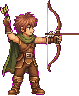
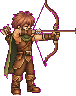
feat: archer idle jump cast from video frames

diff --git a/midgard_outpost/test/art/animation_atlas_test.dart b/midgard_outpost/test/art/animation_atlas_test.dart
@@ -31,7 +31,7 @@ void main() {
       );
       expect(
         AnimationAtlas.heroFrames(HeroClassId.archer, HeroAnimName.jump),
-        hasLength(4),
+        hasLength(6),
       );
       expect(
         AnimationAtlas.heroFrames(HeroClassId.archer, HeroAnimName.cast),
@@ -109,8 +109,8 @@ void main() {
   });
 
   test('allFramePaths lists every animation frame without duplicates', () {
-    expect(AnimationAtlas.allFramePaths, hasLength(58));
-    expect(AnimationAtlas.allFramePaths.toSet(), hasLength(58));
+    expect(AnimationAtlas.allFramePaths, hasLength(60));
+    expect(AnimationAtlas.allFramePaths.toSet(), hasLength(60));
 
     for (final classId in HeroClassId.values) {
       for (final anim in HeroAnimName.values) {

diff --git a/midgard_outpost/lib/art/animation_atlas.dart b/midgard_outpost/lib/art/animation_atlas.dart
@@ -75,7 +75,7 @@ class AnimationAtlas {
       return switch (anim) {
         HeroAnimName.idle => 4,
         HeroAnimName.run => 8,
-        HeroAnimName.jump => 4,
+        HeroAnimName.jump => 6,
         HeroAnimName.cast => 8,
       };
     }

diff --git a/midgard_outpost/tool/import_art_canon.py b/midgard_outpost/tool/import_art_canon.py
@@ -11,7 +11,6 @@ from pathlib import Path
 from PIL import Image
 
 from clean_sprite_alpha import clean_sprite_cutout, force_corner_alpha_zero
-from process_walk_frame import process_walk_frame_image
 
 HERO_FRAME_RESAMPLE = Image.Resampling.NEAREST
 RESAMPLE = Image.Resampling.LANCZOS
@@ -35,15 +34,18 @@ HERO_ANIM_COUNTS: dict[str, int] = {
     "cast": 3,
 }
 
-# Archer v3 magenta-chroma frames (idle/jump — not hero sheet or walk dir).
-ARCHER_V3_ANIMS: dict[str, int] = {
-    "idle": 4,
-    "jump": 4,
-}
-
-# Archer run/cast cycles from Higgsfield video frames (pre-keyed alpha in archer-video/).
+# Archer animation cycles from Higgsfield video frames (pre-keyed alpha in archer-video/).
+ARCHER_VIDEO_IDLE_COUNT = 4
 ARCHER_VIDEO_RUN_COUNT = 8
+ARCHER_VIDEO_JUMP_COUNT = 6
 ARCHER_VIDEO_CAST_COUNT = 8
+
+ARCHER_VIDEO_ANIMS: dict[str, int] = {
+    "idle": ARCHER_VIDEO_IDLE_COUNT,
+    "run": ARCHER_VIDEO_RUN_COUNT,
+    "jump": ARCHER_VIDEO_JUMP_COUNT,
+    "cast": ARCHER_VIDEO_CAST_COUNT,
+}
 
 
 @dataclass(frozen=True)
@@ -441,7 +443,7 @@ def _import_archer_video_frames(
     prefix: str,
     count: int,
 ) -> list[tuple[Path, Path, tuple[int, int]]]:
-    """Import archer run/cast from art-canon/archer-video/ (pre-keyed alpha, passthrough)."""
+    """Import one archer-video animation cycle (pre-keyed alpha, passthrough)."""
     results: list[tuple[Path, Path, tuple[int, int]]] = []
     hero_dir = out_dir / "heroes" / "archer"
 
@@ -467,80 +469,45 @@ def _import_archer_video_frames(
     return results
 
 
-def import_archer_video_run_if_present(
+def import_archer_video_if_present(
     canon_dir: Path, out_dir: Path
 ) -> list[tuple[Path, Path, tuple[int, int]]]:
-    """Import archer run from art-canon/archer-video/ (pre-keyed alpha, no magenta chroma)."""
+    """Import archer idle/run/jump/cast from art-canon/archer-video/ (pre-keyed alpha)."""
     video_dir = canon_dir / "archer-video"
     if not video_dir.is_dir():
-        return []
-    return _import_archer_video_frames(
-        video_dir, out_dir, prefix="run", count=ARCHER_VIDEO_RUN_COUNT
-    )
-
-
-def import_archer_video_cast_if_present(
-    canon_dir: Path, out_dir: Path
-) -> list[tuple[Path, Path, tuple[int, int]]]:
-    """Import archer cast from art-canon/archer-video/ (pre-keyed alpha, no magenta chroma)."""
-    video_dir = canon_dir / "archer-video"
-    if not video_dir.is_dir():
-        return []
-    return _import_archer_video_frames(
-        video_dir, out_dir, prefix="cast", count=ARCHER_VIDEO_CAST_COUNT
-    )
-
-
-def import_archer_v3_if_present(canon_dir: Path, out_dir: Path) -> list[tuple[Path, Path, tuple[int, int]]]:
-    """Import archer idle/jump from art-canon/archer-v3/ magenta chroma frames."""
-    archer_dir = canon_dir / "archer-v3"
-    if not archer_dir.is_dir():
         return []
 
     results: list[tuple[Path, Path, tuple[int, int]]] = []
-    hero_dir = out_dir / "heroes" / "archer"
     idle_0: Image.Image | None = None
 
-    for anim, count in ARCHER_V3_ANIMS.items():
-        for idx in range(count):
-            src = archer_dir / f"archer-{anim}-{idx}.png"
-            if not src.is_file():
-                raise SystemExit(f"Missing archer-v3 frame: {src}")
-            with Image.open(src) as raw:
-                frame = process_walk_frame_image(
-                    raw,
-                    max_edge=96,
-                    largest_component_only=True,
-                )
-            rel = Path("heroes") / "archer" / f"{anim}_{idx}.png"
-            dest = out_dir / rel
-            write_png(frame, dest)
-            results.append((src, dest, frame.size))
-            print(f"{src.name} -> {rel} ({frame.size[0]}x{frame.size[1]})")
-            if anim == "idle" and idx == 0:
-                idle_0 = frame
+    for prefix, count in ARCHER_VIDEO_ANIMS.items():
+        batch = _import_archer_video_frames(video_dir, out_dir, prefix=prefix, count=count)
+        results.extend(batch)
+        if prefix == "idle" and batch:
+            with Image.open(batch[0][1]) as img:
+                idle_0 = ensure_rgba(img.copy())
 
     if idle_0 is None:
-        raise SystemExit("archer-v3 import produced no idle_0 frame")
+        raise SystemExit("archer-video import produced no idle_0 frame")
 
     preview_rel = Path("heroes") / "archer.png"
     preview_dest = out_dir / preview_rel
     write_png(idle_0, preview_dest)
-    results.append((archer_dir / "archer-idle-0.png", preview_dest, idle_0.size))
-    print(f"archer-idle-0.png -> {preview_rel} ({idle_0.size[0]}x{idle_0.size[1]})")
+    results.append((video_dir / "idle_0.png", preview_dest, idle_0.size))
+    print(f"idle_0.png -> {preview_rel} ({idle_0.size[0]}x{idle_0.size[1]})")
 
     icon = make_bottom_aligned_icon(idle_0, 64)
     icon_rel = Path("hub") / "icon_archer.png"
     icon_dest = out_dir / icon_rel
     write_png(icon, icon_dest)
-    results.append((archer_dir / "archer-idle-0.png", icon_dest, icon.size))
-    print(f"archer-idle-0.png -> {icon_rel} ({icon.size[0]}x{icon.size[1]})")
+    results.append((video_dir / "idle_0.png", icon_dest, icon.size))
+    print(f"idle_0.png -> {icon_rel} ({icon.size[0]}x{icon.size[1]})")
 
     return results
 
 
 def import_walk_cycles_if_present(canon_dir: Path, out_dir: Path) -> list[tuple[Path, Path, tuple[int, int]]]:
-    """Import run frames from art-canon/walk/ for mage/paladin (archer uses archer-v3)."""
+    """Import run frames from art-canon/walk/ for mage/paladin (archer uses archer-video)."""
     walk_dir = canon_dir / "walk"
     if not walk_dir.is_dir():
         return []
@@ -562,9 +529,9 @@ def import_canon(canon_dir: Path, out_dir: Path) -> list[tuple[Path, Path, tuple
     for src in sources:
         if src.name.startswith("hero-"):
             hero_name = src.stem.removeprefix("hero-")
-            # Archer frames come from archer-v3, not sheet slices or walk dir.
+            # Archer frames come from archer-video, not sheet slices or walk dir.
             if hero_name == "archer":
-                print(f"skip sheet slice: {src.name} (archer-v3 import)")
+                print(f"skip sheet slice: {src.name} (archer-video import)")
                 continue
             for dest, size in import_hero_sheet(src, hero_name, out_dir):
                 results.append((src, dest, size))
@@ -589,9 +556,7 @@ def import_canon(canon_dir: Path, out_dir: Path) -> list[tuple[Path, Path, tuple
                 print(f"{src.name} -> {rel_dest} ({size[0]}x{size[1]})")
 
     results.extend(import_walk_cycles_if_present(canon_dir, out_dir))
-    results.extend(import_archer_v3_if_present(canon_dir, out_dir))
-    results.extend(import_archer_video_run_if_present(canon_dir, out_dir))
-    results.extend(import_archer_video_cast_if_present(canon_dir, out_dir))
+    results.extend(import_archer_video_if_present(canon_dir, out_dir))
     return results
 
 

diff --git a/midgard_outpost/tool/test_import_art_canon.py b/midgard_outpost/tool/test_import_art_canon.py
@@ -20,27 +20,21 @@ from clean_sprite_alpha import (  # noqa: E402
     force_corner_alpha_zero,
 )
 from import_art_canon import (  # noqa: E402
-    ARCHER_V3_ANIMS,
+    ARCHER_VIDEO_ANIMS,
     ARCHER_VIDEO_CAST_COUNT,
     ARCHER_VIDEO_RUN_COUNT,
     ensure_rgba,
     import_canon,
 )
-from process_walk_frame import process_walk_frame_image  # noqa: E402
 
 CANON_DIR = Path(__file__).resolve().parents[2] / "docs" / "superpowers" / "art-canon"
-ARCHER_V3_DIR = CANON_DIR / "archer-v3"
 ARCHER_VIDEO_DIR = CANON_DIR / "archer-video"
 ASSETS_DIR = Path(__file__).resolve().parents[1] / "assets" / "images"
 
 HERO_CLASSES = ("archer", "mage", "paladin")
 SHEET_SLICE_HEROES = ("mage", "paladin")
 
-ARCHER_ANIM_COUNTS = {
-    **ARCHER_V3_ANIMS,
-    "run": ARCHER_VIDEO_RUN_COUNT,
-    "cast": ARCHER_VIDEO_CAST_COUNT,
-}
+ARCHER_ANIM_COUNTS = dict(ARCHER_VIDEO_ANIMS)
 DEFAULT_ANIM_COUNTS = {
     "idle": 2,
     "run": 4,
@@ -97,27 +91,20 @@ def archer_video_frame_hash(prefix: str, idx: int) -> str:
     return hashlib.md5(buf.getvalue()).hexdigest()
 
 
+def archer_video_idle_hash(idx: int) -> str:
+    return archer_video_frame_hash("idle", idx)
+
+
+def archer_video_jump_hash(idx: int) -> str:
+    return archer_video_frame_hash("jump", idx)
+
+
 def archer_video_run_hash(idx: int) -> str:
     return archer_video_frame_hash("run", idx)
 
 
 def archer_video_cast_hash(idx: int) -> str:
     return archer_video_frame_hash("cast", idx)
-
-
-def archer_v3_frame_hash(anim: str, idx: int) -> str:
-    src = ARCHER_V3_DIR / f"archer-{anim}-{idx}.png"
-    with Image.open(src) as raw:
-        processed = process_walk_frame_image(
-            raw,
-            max_edge=96,
-            largest_component_only=True,
-        )
-    from io import BytesIO
-
-    buf = BytesIO()
-    force_corner_alpha_zero(ensure_rgba(processed)).save(buf, format="PNG", optimize=True)
-    return hashlib.md5(buf.getvalue()).hexdigest()
 
 
 def hero_anim_counts(hero: str) -> dict[str, int]:
@@ -176,20 +163,33 @@ class ImportArtCanonRegressionTest(unittest.TestCase):
                     f"{hero} cast_2 should pad cast_1, not a run stride pose",
                 )
 
-    def test_archer_frames_match_v3_canon(self) -> None:
-        if not ARCHER_V3_DIR.is_dir():
-            self.skipTest(f"archer-v3 canon missing: {ARCHER_V3_DIR}")
-        for anim, count in ARCHER_V3_ANIMS.items():
-            for idx in range(count):
-                dest = ASSETS_DIR / "heroes" / "archer" / f"{anim}_{idx}.png"
-                expected = archer_v3_frame_hash(anim, idx)
-                actual = file_md5(dest)
-                with self.subTest(anim=anim, idx=idx):
-                    self.assertEqual(
-                        actual,
-                        expected,
-                        f"archer {anim}_{idx} does not match processed archer-v3 source",
-                    )
+    def test_archer_idle_frames_match_video_canon(self) -> None:
+        if not ARCHER_VIDEO_DIR.is_dir():
+            self.skipTest(f"archer-video canon missing: {ARCHER_VIDEO_DIR}")
+        for idx in range(ARCHER_VIDEO_ANIMS["idle"]):
+            dest = ASSETS_DIR / "heroes" / "archer" / f"idle_{idx}.png"
+            expected = archer_video_idle_hash(idx)
+            actual = file_md5(dest)
+            with self.subTest(idx=idx):
+                self.assertEqual(
+                    actual,
+                    expected,
+                    f"archer idle_{idx} does not match processed archer-video source",
+                )
+
+    def test_archer_jump_frames_match_video_canon(self) -> None:
+        if not ARCHER_VIDEO_DIR.is_dir():
+            self.skipTest(f"archer-video canon missing: {ARCHER_VIDEO_DIR}")
+        for idx in range(ARCHER_VIDEO_ANIMS["jump"]):
+            dest = ASSETS_DIR / "heroes" / "archer" / f"jump_{idx}.png"
+            expected = archer_video_jump_hash(idx)
+            actual = file_md5(dest)
+            with self.subTest(idx=idx):
+                self.assertEqual(
+                    actual,
+                    expected,
+                    f"archer jump_{idx} does not match processed archer-video source",
+                )
 
     def test_archer_run_frames_match_video_canon(self) -> None:
         if not ARCHER_VIDEO_DIR.is_dir():
